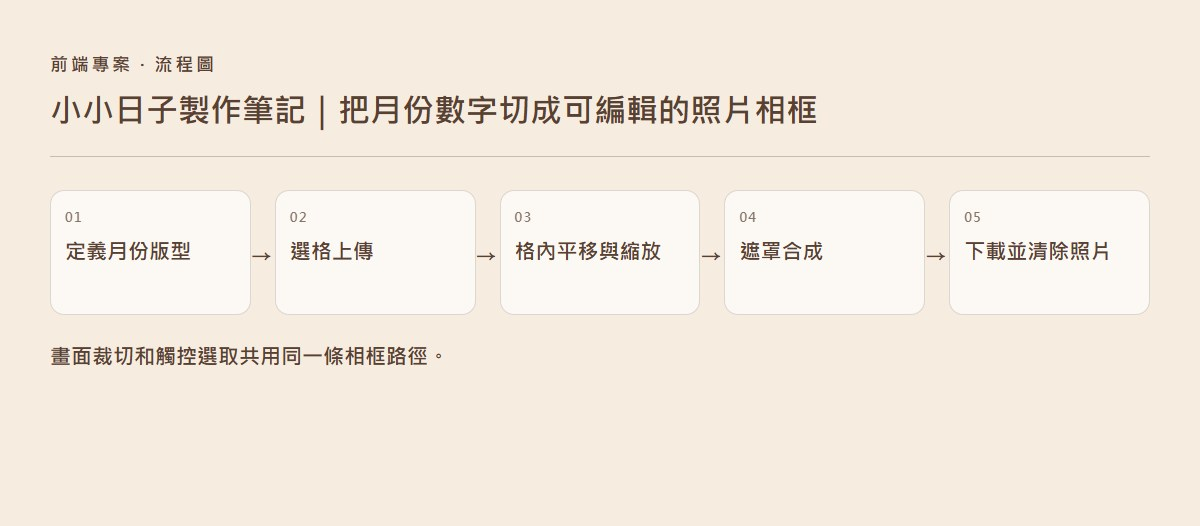
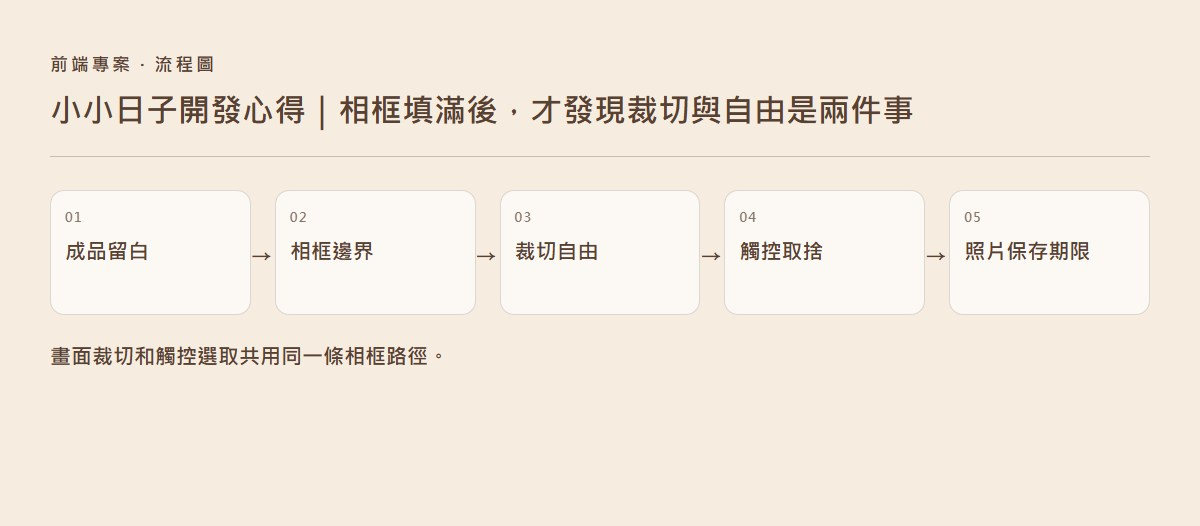
Rewrite recent project notes as development reflections

diff --git a/src/data/recentProjectNotes.ts b/src/data/recentProjectNotes.ts
@@ -3,34 +3,34 @@ import type { BlogPost } from './blog'
 export const recentProjectNotes: BlogPost[] = [
   {
     id: 'night-parcel',
-    title: '夜航郵差製作筆記｜從一鍵飛行到計分與手機操作',
+    title: '夜航郵差開發心得｜單鍵遊戲最難調的，是手感與公平感',
     category: '前端專案',
-    excerpt: '沿著一局遊戲拆解輸入、重力、訊號門、星郵、碰撞與暫停。',
+    excerpt: '反思飛行手感、障礙難度、計分順序，以及一個小遊戲在手機上最容易被忽略的細節。',
     related: { to: '/works/night-parcel', label: '夜航郵差作品案例' },
     relatedNotes: ['vue3-states', 'little-days-frames'],
     sources: [{ label: '夜航郵差公開版', url: 'https://night-parcel-flight.consideratebook2.chatgpt.site/' }],
     sections: [
-      { heading: '先準備能看清楚障礙的夜港場景', body: '製作背景時把城市與水面放在畫面下方，讓上方留給正在移動的航標。背景是一張插畫，遊戲物件則由程式繪製，因此載入圖片的時間和碰撞判定互相獨立。部署後我另外在窄畫面檢查第一道門的可見範圍和上方按鈕，確認手機也能直接進入一局。' },
-      { heading: '從單鍵飛行組出新的遊戲節奏', body: '最初的目標是讓玩家在第一局就理解控制方式。手機點畫布、桌面點滑鼠或按空白鍵，最後都交給同一個升高動作。這個動作會設定紙翼的垂直速度，接下來每一幀再加入向下的重力，因此放開按鍵後有一小段自然的上升，再轉成下墜。鍵盤長按會產生重複事件，處理時要略過重複觸發，否則按住空白鍵與手機手指點一下會成為兩套不同的規則。畫面採夜港與紙翼信使的主題，遠景與航道在畫面上分成兩層，遠景提供氛圍，訊號門與星郵則要有足夠亮度，方便玩家在移動中辨認。' },
-      { heading: '讓航道的更新和畫面更新各司其職', body: '每一幀先依經過時間更新垂直速度與位置，再把所有門向左移動，最後用 Canvas 畫出同一份遊戲狀態。速度以每秒移動的座標單位計算，因此換成不同更新率的螢幕，操作節奏仍可維持接近。每幀時間設上限，以免視窗曾經忙碌後，一次跨過整座門。門的位置不以畫布的絕對像素硬寫成固定距離，第一道門會依可用寬度安排，避免手機一開始還看不到障礙，或在較窄的直式比例瞬間撞門。後續門保留固定間距，門洞中心相對前一座門做有限度變動，讓下一次升降有可預期的時間。' },
-      { heading: '一次通過只算一次，星郵另外計分', body: '門有已通過旗標，紙翼的後緣完全越過門時才加一分。星郵有獨立的可收集旗標，紙翼與星郵中心距離達到門檻時加兩分，隨即關閉該星郵。驗收可以把紙翼留在同一顆星郵中心連跑兩次更新，分數應仍為二；再把門移到紙翼身後，才得到第三分。難度使用通過的門數，每五座提高航速並縮窄後續生成的門洞，這樣收集星郵不會突然改變飛行手感。碰撞檢查必須先於通過判定，紙翼擦到上緣、下緣或門時，本局停止計分並顯示碰撞原因。' },
-      { heading: '用狀態守住暫停、結束與重玩', body: '遊戲開始前顯示操作提示，進行中才讓暫停與升高按鈕可用，結束後切換成結算和重玩。分頁切到背景會暫停，回來可自行繼續，因此使用者暫時切換視窗時不會因為沒有操作而結束。重玩建立乾淨的紙翼位置、計分與障礙，最高分則保存在同一個瀏覽器，清除瀏覽器資料後會重新開始。結算時用總分決定徽章並顯示本局結果。手機上的遊戲區在進行時接管觸控，暫停或結束後便可以繼續捲頁看規則。測試時要實際從開始走到暫停、繼續、撞擊與重玩，並另外用可控制位置的測試確認碰撞與計分順序。' },
+      { heading: '飛得起來很快，飛起來舒服很慢', body: '這個專案最容易低估的是，畫面上唯一的操作卻承擔了整局的手感。固定一次向上的推力在程式裡只是一個數字，玩起來卻會同時影響上升弧線、到達最高點後留給玩家的判斷時間，以及下墜前能不能補救。紙翼明明有反應，但如果每次要連續點好幾下才能穿過第一座門，感受上很容易像是控制沒有跟上。把回饋調得更強也不一定更好，因為一次點擊跳得太高，就會把遊戲變成反覆修正過頭的位置。做完這一版，我會把手感視為整段飛行曲線的結果，調整時一併觀察初始推力、重力和障礙距離。' },
+      { heading: '第一座門會決定玩家怎麼理解失敗', body: '開發時桌面視窗很寬，第一座門從遠處進場看起來自然。換到手機後，可見航道短了一截，相同的世界座標安排可能讓障礙太晚出現，也可能壓縮玩家看清楚門洞的時間。我最後讓首門距離跟著可用寬度調整，後續才用固定的間距安排。這個取捨犧牲了一點跨裝置的軌跡一致性，換來比較接近的反應時間。使用時我更在意失敗後能不能一眼明白自己是撞到門、落水，還是貼到航線上緣。原因看得懂，下一局才有可修正的地方。背景也是相同道理，夜港可以有細節，但活動區要夠安靜，星郵和門洞邊緣才不會混在一起。' },
+      { heading: '星郵獎勵差點把難度和分數綁錯', body: '有了加分道具後，分數就同時代表走了多遠以及額外收集了多少。用總分調難度省事，卻會懲罰有意追星郵的玩家，剛收集成功就可能讓下一道門提早抵達。因此我用已通過的門數調航速和後續門洞大小，總分則留給徽章和紀錄。這是我覺得最值得保留的設計取捨，因為兩個值在畫面上都像是進度，實際上負責不同的體驗。同樣需要小心的是更新順序。穿過門與撞門可能發生在相鄰的更新中，如果先記分才判撞擊，就容易讓一個肉眼看得出失敗的動作變成加分。這類細節看似邊緣，玩久了會直接影響玩家願不願意相信最高分。' },
+      { heading: '暫停是一個承諾，重玩也是', body: '一局只有幾秒時，離開分頁後直接判輸會讓人覺得上一段努力白費。遊戲在背景時暫停，回來再交由玩家決定何時開始。這也讓我意識到，畫面幀率和時間流逝要分開處理。假如瀏覽器忙過一陣子，把累積的時間一口氣交給單次物理更新，紙翼可能穿過一段本該撞到的門。限縮單次更新時間是目前規模下夠用的取捨。若未來要做可重播紀錄，我會更早改成固定時間步長，讓同一組輸入更容易重現。重玩也需要切清楚哪些屬於上一局，障礙和即時分數重建，最高分才是可留下的資料。' },
+      { heading: '下一版先觀察失敗發生在哪裡', body: '現在的畫面和操作已經能讓一局完整跑完，但我還沒有足夠的玩家資料判斷難度曲線是否剛好。若再做一版，我最想先看新手通常卡在首門之前、首門邊緣，還是第一次加速之後。這三種情況分別指向輸入回饋、障礙可讀性和難度增幅，改的東西不會一樣。專案給我的教訓是，單鍵玩法沒有太多地方可以藏問題。一點點碰撞偏差、一個看不清楚的邊界，或是手機上少了半秒預警，都會比新增一張背景更直接改變遊戲好不好玩。' },
     ],
   },
   {
     id: 'little-days-frames',
-    title: '小小日子製作筆記｜把月份數字切成可編輯的照片相框',
+    title: '小小日子開發心得｜相框填滿後，才發現裁切與自由是兩件事',
     category: '前端專案',
-    excerpt: '記錄固定相框的切分、命中判斷、格內裁切、照片清空與 PNG 匯出。',
+    excerpt: '從使用者上傳照片後的留白問題，回看數字相框、照片裁切、手機手勢與資料保留的取捨。',
     related: { to: '/works/little-days', label: '小小日子作品案例' },
     relatedNotes: ['little-days', 'night-parcel'],
     sources: [{ label: '拼貼工作室公開版', url: 'https://little-days-monthbook.consideratebook2.chatgpt.site/studio.html' }],
     sections: [
-      { heading: '先做可實際把照片放進去的版型', body: '參考圖中的人物與貼紙只用來看相框分布，工作室的版型由每一格的座標構成。設計時先找出數字最寬的筆畫放主照，再處理窄筆畫和斜邊，最後安排可自行加字的區域。每格都用有效像素抽樣核對，避免出現看得到格號卻點不到，或照片大部分被遮住的情況。' },
-      { heading: '把數字輪廓與照片格拆成不同形狀', body: '第一版從數字輪廓算出可放照片的區域，能很快支援月份切換，但照片一多就容易出現重複的格子比例。固定相框改為每個月份各自定義形狀，把參考版型裡的大主照、小直幅、斜邊與留字空間安排在相對座標裡。外層數字仍用同一張遮罩，照片格則用獨立路徑。直邊用圓角矩形，傾斜的格子用多邊形，再透過二次曲線把轉角變圓。設計 1 時要照顧上方筆畫與下方細長的直畫，設計 8 則要避開兩個內孔。雙位數還要兼顧左右間距，照片才不會跨到另一個數字。' },
-      { heading: '同一條相框路徑處理顯示和點選', body: '格子可能被數字邊緣切掉一段，若點選只看矩形外盒，使用者會在沒有照片的地方意外選到相框。實作時先判斷點有沒有落在整個數字的有效像素，再用相框路徑判斷點是否位於格內。畫照片時也裁切在同一條路徑，因此看得到、點得到與可編輯的範圍一致。空格編號需要落在可見的筆畫內，因此在格內搜尋靠近中心且周圍像素足夠的區域。畫布坐標與手機的 CSS 尺寸不同，手指點下後要按畫布實際寬高換算，再做命中判斷。用窄螢幕測試時，應特別試切到斜邊和有內孔的數字。' },
-      { heading: '照片跟著格子，裁切跟著照片', body: '每張照片記住自己指向的相框編號。在面板選空格再上傳，照片會直接進該格；多張照片從選定的格子開始，接著填入其餘空格。在已有照片的格子重新上傳會更換照片。調整格內位置時維持相框外形，只修改圖片相對中心的偏移；以圖片填滿格子的比例為起點，再結合縮放值算出可移動的上下左右範圍。這樣放大後可以把人臉移到適當位置，縮回後也不會把圖片推得只剩一個角。換格遇到已有照片時會交換，兩張重新置中，因為不同格子的寬高和可拖範圍可能完全不同。' },
-      { heading: '管理編輯期間與重新進站的資料壽命', body: '自由拼貼與固定相框使用各自的照片陣列，使用者在同一次編輯中切換時可以回頭繼續。每月的配色與文字仍可保存，但照片只留在該次開啟的工作室。舊版本曾將照片寫入本機資料庫，因此新版本讀取時會去除舊照片欄位，更新保存格式。瀏覽器也可能透過上一頁還原整個工作室，這個進站路徑需要清除記憶中的照片。匯出則建立新畫布重繪同樣的遮罩、相框和文字，省略編輯框與編號。驗收從手機選一格、加照片、換格、放大、匯出，再重新整理確認空格還在且照片已清空。' },
+      { heading: '空白模板順眼，放進真照片就變了', body: '我原先用數字輪廓搭配各月手動安排的大小格、斜邊和圓角。空版看起來層次清楚，但放入照片之後，數字 1 的底部和數字 2 的斜筆畫出現明顯留白。這個問題只有把整組照片放進去才容易看出。單看照片是否成功進格，每一格似乎都正常，整張卡卻像是還沒編完。使用者看到的成品感來自照片整體有沒有撐住筆畫，格數夠多並不能補救形狀沒填滿。現在回看，我會把空白模板和填滿後的預覽一起評估，並用實際容易遇到的長直幅、橫幅和近距離人物照檢查版面。' },
+      { heading: '補上留白時，還要保住每格的辨識度', body: '我保留不同月份已安排好的格形，讓這些格子作為起始區域，再把數字內還沒分配的像素延伸給相鄰的格子。比起每個月份都硬補一張照片，這個做法能保留原本的主照及小格比例，同時處理筆畫末端的不規則區域。代價是格子的實際外框不再等於最初的矩形或多邊形，點選與裁切也要改成讀取同一份分區結果。尤其是 8 或 0 的內孔，如果仍然用外接矩形判斷，手指點到洞裡也可能選到照片。這次實作最重要的判斷是，畫面看到的形狀才是使用者認知的相框，編輯器內部的矩形只適合做縮放計算。' },
+      { heading: '預設填滿與允許留白可以同時成立', body: '起初格內的位移會被約束，縮放也設了明確上下限，想確保照片永遠填滿相框。實際使用時，這會搶走使用者的構圖決定。人臉如果太靠邊，有人寧可縮小照片，多留一點底色，也想保住完整的表情。這次我把預設填滿保留下來，之後讓照片自行平移和縮放，只透過外層相框限制最後能看見的部分。我更喜歡這個分工，因為它兼顧第一次放照片的完成度，以及微調時需要的自由。也衍生一個需要留意的情境，照片可能被整張移出可見範圍，這時選格、縮圖與格號就必須幫使用者找回它。' },
+      { heading: '手機上的編輯手勢要給捲動留路', body: '桌面上拖曳照片、用滾輪縮放，再把滑鼠移到畫布外捲動頁面，操作之間有天然的區分。手機沒有這樣的分界，手指在同一個位置可能想往下讀，也可能想移動照片。工作室因此保留顯式的編輯模式，縮放鍵也放在畫布旁邊，少一次來回找控制的捲動。這種設計增加了一次進入編輯的操作，但讓手指開始滑動前就知道會發生什麼。未來若再簡化流程，我會先觀察使用者是找不到選格、看不出目前選中哪張，還是被相框太小卡住。三種問題都會讓人覺得不好用，解法卻分別是入口、回饋與命中區域。' },
+      { heading: '照片的保存期限也是作品體驗', body: '這個工具處理的是家庭照片，早期把整份草稿留在瀏覽器，雖然回來能接著編，下一次開啟卻可能還看見上一輪的照片。後來改成照片只保留在當次工作室，文字與配色則可留下。這讓人每次可以從乾淨的卡片開始，也代表重新整理之前最好已經匯出。製作時容易漏掉瀏覽器按上一頁還原畫面的情況，因此要同時考慮舊資料庫、當前頁面記憶體和瀏覽器返回快取。下次做相似編輯器，我會把每類資料該留多久和離開時的預期，當成第一輪設計的一部分，因為它直接決定使用者敢不敢放心把照片放進來。' },
     ],
   },
 ]

diff --git a/src/data/noteDetails.ts b/src/data/noteDetails.ts
@@ -5,24 +5,27 @@ export interface NoteDetail {
   image?: string
   caption?: string
   practice: string[]
+  closingHeading?: string
 }
 
 export const noteDetails: Record<string, NoteDetail> = {
   'night-parcel': {
     key: '幀更新先判碰撞，再更新通過與收集狀態。',
     alert: '難度用已通過的門數計算，避免星郵加分突然提高航速。',
-    steps: ['接收單次輸入', '更新位置與門距', '檢查碰撞', '結算門與星郵', '保存最高分'],
+    closingHeading: '做完最想留住的經驗',
+    steps: ['飛行手感', '首門反應時間', '碰撞公平感', '難度與獎勵', '暫停與重玩'],
     image: '/case-previews/night-parcel.jpg',
     caption: '夜航郵差的開場、得分面板與飛行區。',
-    practice: ['第一輪驗收用桌面鍵盤直接開始，觀察紙翼在一次推升後落下，暫停後停留五秒再繼續。第二輪用手機輕點升高按鈕，撞到海面時應出現結算而且重玩把分數歸零。第三輪用可控制的座標檢查同一顆星郵、同一道門和碰撞這三種事件。最後輸入一局可得分的測試狀態，再重新開啟頁面確認最高分仍存在。測試時把每一種預期拆成可獨立核對的項目，出錯時才能分辨是輸入沒有觸發、幀更新沒有執行，還是事件已處理但畫面數字沒有同步。'],
+    practice: ['如果下一次也只做一個按鍵，我會先做一個素色航道，把首門、撞擊和重玩的節奏調到自己願意連玩幾局，再去做主視覺。這次的背景確立了作品性格，但能不能一直玩下去，最後還是取決於手感和失敗是否公平。尤其在手機，按鈕能被點到和手指真的願意一直放在那裡，是兩種差很多的體驗。'],
   },
   'little-days-frames': {
     key: '畫面裁切和觸控選取共用同一條相框路徑。',
     alert: '重新進站時必須清掉照片，包括舊 IndexedDB 內容與瀏覽器返回快取。',
-    steps: ['定義月份版型', '選格上傳', '格內平移與縮放', '遮罩合成', '下載並清除照片'],
+    closingHeading: '做完最想留住的經驗',
+    steps: ['成品留白', '相框邊界', '裁切自由', '觸控取捨', '照片保存期限'],
     image: '/case-previews/little-days.jpg',
     caption: '工作室的紀念卡與編輯工具區。',
-    practice: ['驗收從第八個月開始，挑一張直幅和一張橫幅，分別上傳到不同格子。先沿著內孔的邊緣試點，孔內不應選到照片。接著放大直幅，移到左邊再移到最右邊，兩次都不能露出格內空白或影響其他格。切到自由拼貼後應看到該模式自己的照片，切回固定相框應保留已完成的狀態。輸出圖檔後核對填了照片的格、留字空間以及文字位置，最後重新整理確認照片已清空，並檢查既有配色仍可還原。'],
+    practice: ['這個專案讓我最有感的是，使用者想要的自由會隨著階段改變。第一次把照片放進去，希望工具替他把畫面撐起來。開始挑表情、移動主角時，又希望工具安靜地退到後面。下次我會在版型設計之初，就同時看預設成品與手動微調的結果，避免為了保證畫面整齊，把最有個人感的調整拿掉。'],
   },
   'ai-notes': {
     key: '依任務的輸出、讀取與寫入邊界決定工具權限。',

diff --git a/src/views/ArticlesView.vue b/src/views/ArticlesView.vue
@@ -71,7 +71,7 @@ function listLink(group?: string, page = 1) {
             <li v-for="(section, index) in post.sections" :key="section.heading">
               <RouterLink :to="{ path: route.path, hash: '#note-' + (index + 1) }" class="underline underline-offset-4">{{ section.heading }}</RouterLink>
             </li>
-            <li><RouterLink :to="{ path: route.path, hash: '#note-practice' }" class="underline underline-offset-4">實務操作與驗收</RouterLink></li>
+            <li><RouterLink :to="{ path: route.path, hash: '#note-practice' }" class="underline underline-offset-4">{{ details.closingHeading ?? '實務操作與驗收' }}</RouterLink></li>
           </ol>
         </nav>
         <section v-for="(section, index) in post.sections" :id="'note-' + (index + 1)" :key="section.heading" class="mt-8 max-w-3xl border-l-2 border-indigo-200 pl-4 dark:border-indigo-800">
@@ -89,7 +89,7 @@ function listLink(group?: string, page = 1) {
           <p class="mt-1 text-lg font-semibold leading-relaxed">{{ details.alert }}</p>
         </aside>
         <section id="note-practice" class="mt-9 max-w-3xl border-t border-zinc-200 pt-6 dark:border-zinc-800">
-          <h2 class="text-2xl font-bold sm:text-3xl">實務操作與驗收</h2>
+          <h2 class="text-2xl font-bold sm:text-3xl">{{ details.closingHeading ?? '實務操作與驗收' }}</h2>
           <p v-for="paragraph in details.practice" :key="paragraph" class="mt-4 text-base leading-8 text-zinc-700 sm:text-lg sm:leading-9 dark:text-zinc-300">{{ paragraph }}</p>
         </section>
         <aside v-if="post.related || post.sources?.length || relatedNotes.length" class="mt-10 max-w-3xl rounded-2xl border border-zinc-200 p-5 dark:border-zinc-800">
